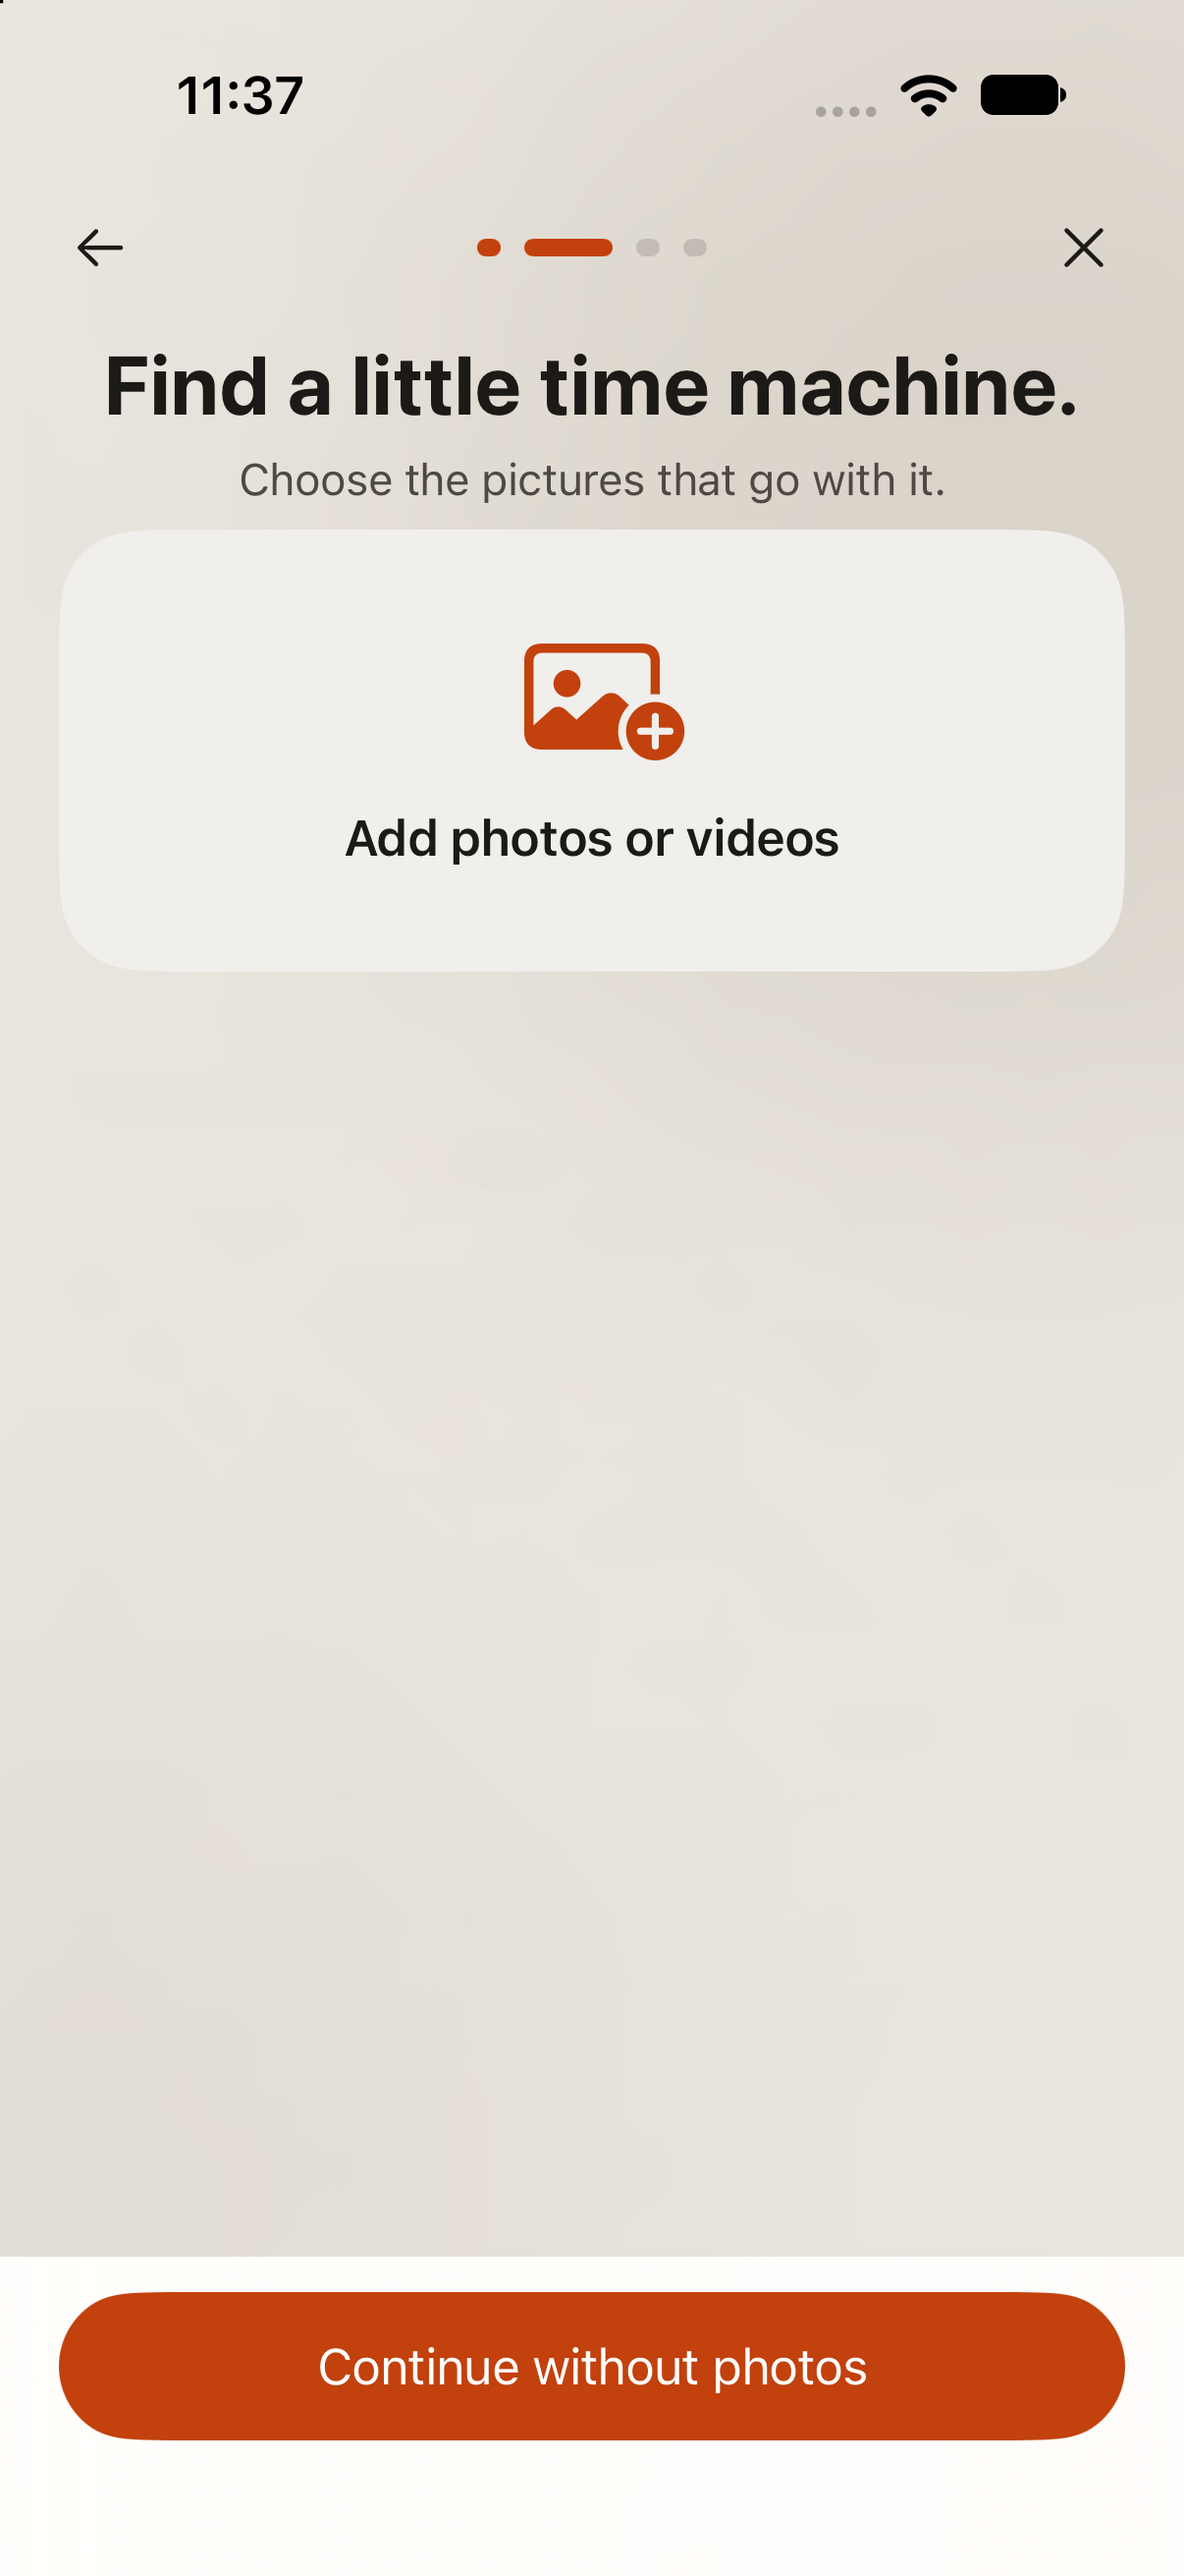
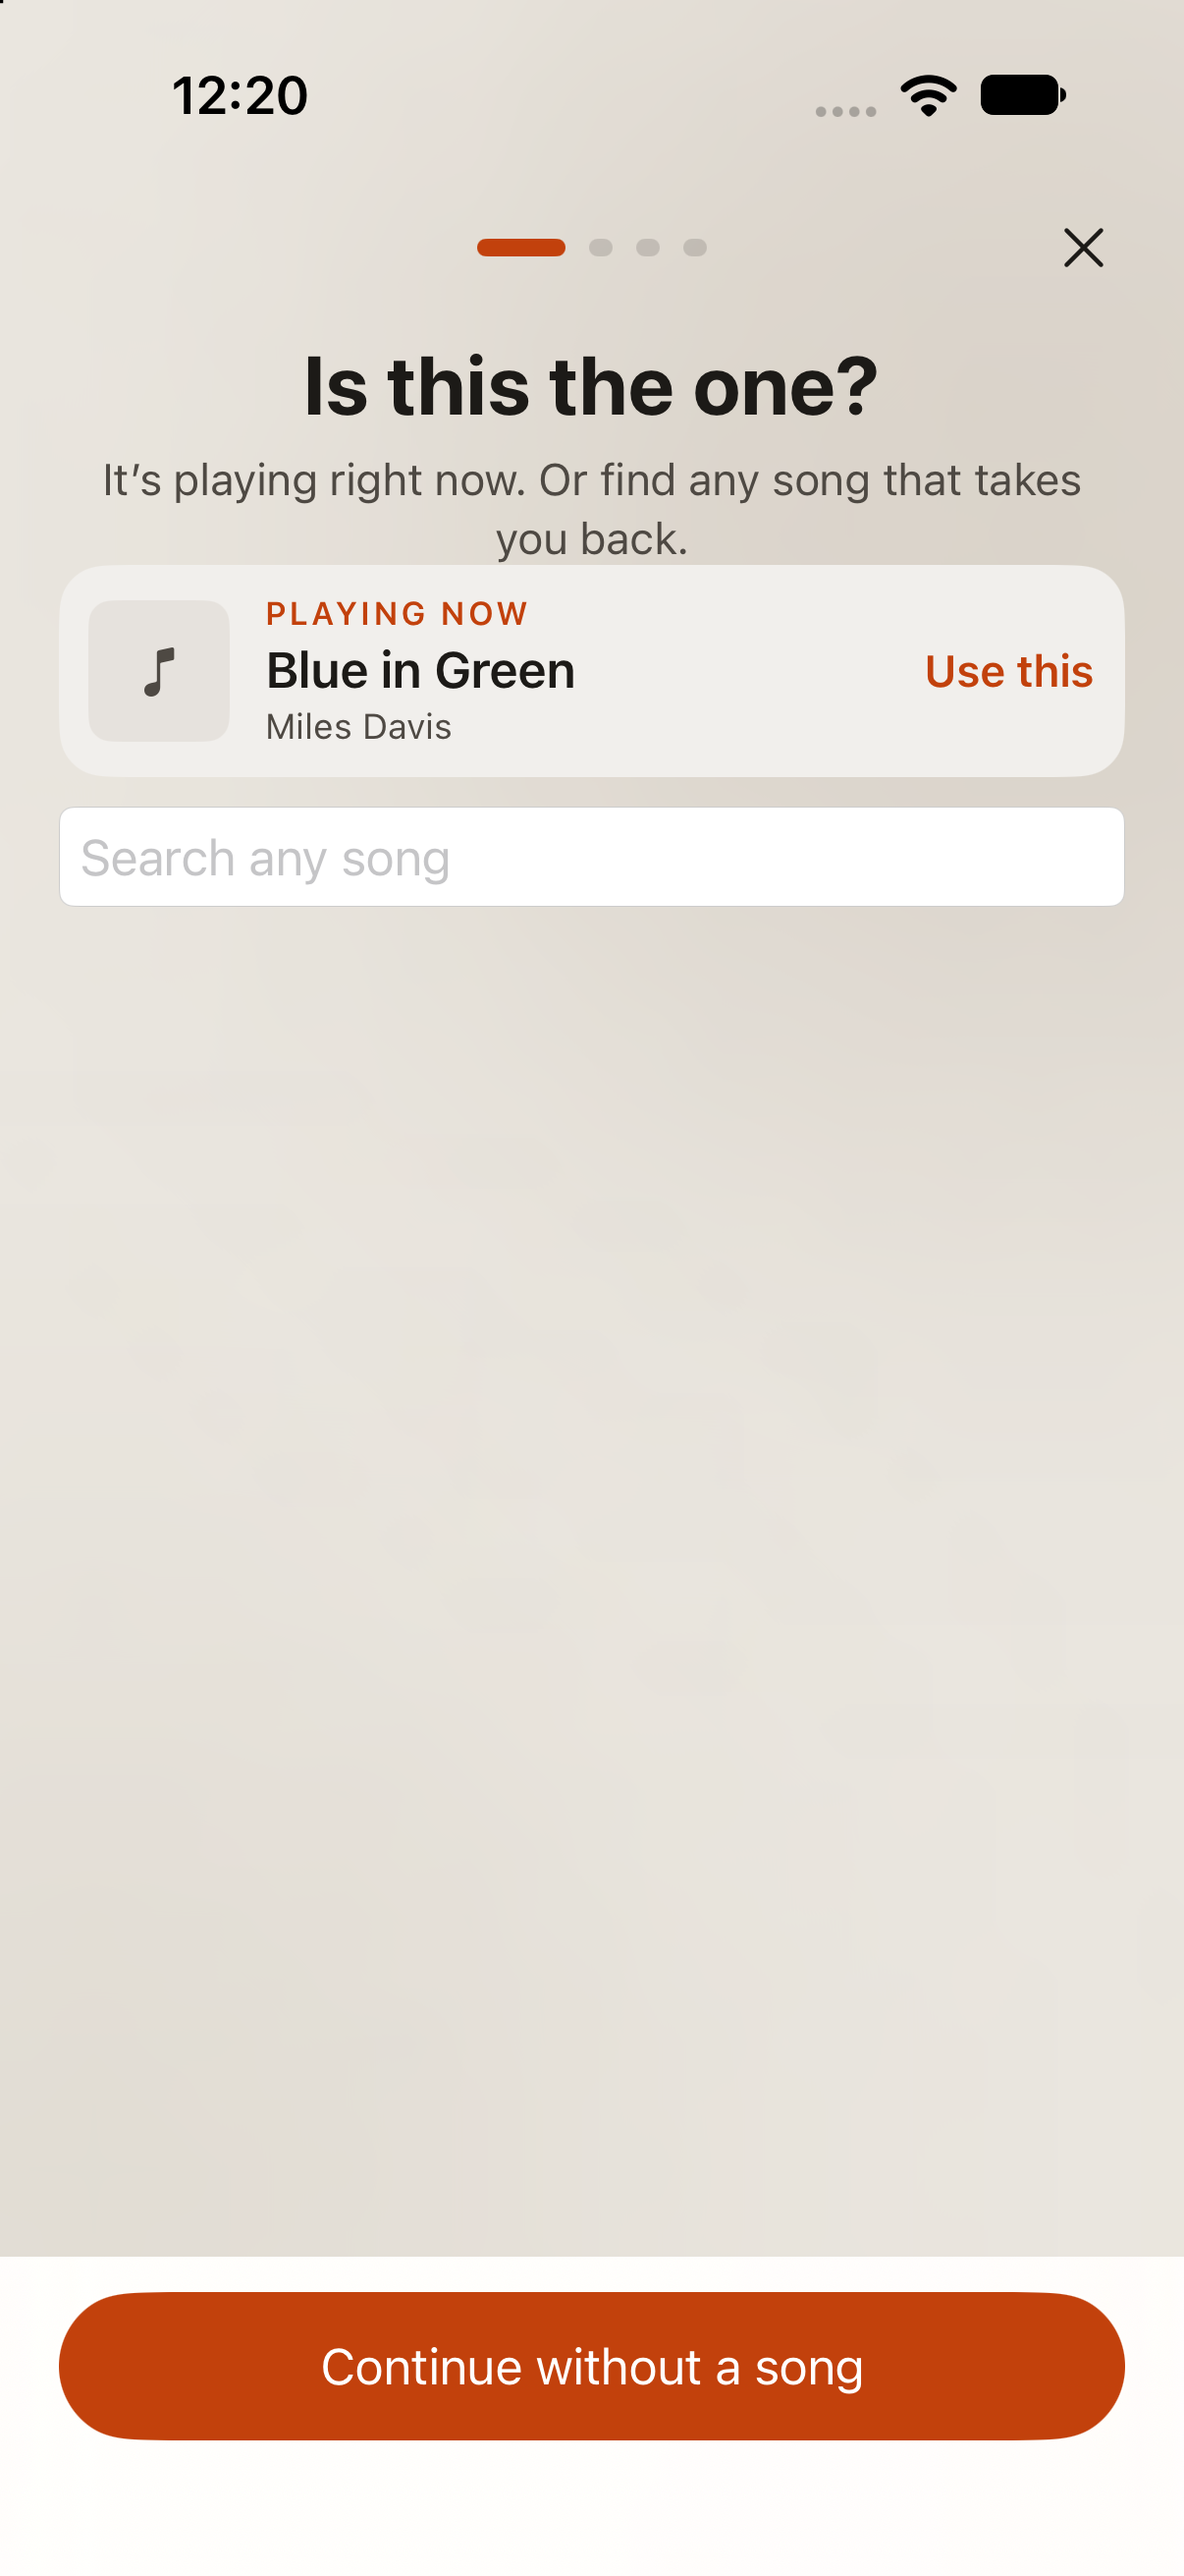
Fix review findings: photo-only saves, uploads that finish after leaving, song screenshot
- The preview's save guard now counts uploaded attachments (savableDraft), so a
  photo- or video-only memory can be kept.
- Close waits for an upload in flight, and an upload that still finishes after the journey
  was left is discarded from the server (MemoryUploadGate).
- Debug launch arg selects a step by name; replaces the song screenshot.

diff --git a/mobile/ios/jukeapp/JukeApp/Views/Memories/MemoryJourneyView.swift b/mobile/ios/jukeapp/JukeApp/Views/Memories/MemoryJourneyView.swift
@@ -25,6 +25,7 @@ struct MemoryJourneyView: View {
     @State private var results: [CatalogSearchResult] = []
     @State private var searching = false
     @State private var saving = false
+    @State private var gate = MemoryUploadGate()
     @State private var confirmDiscard = false
     @State private var didSave = false
     @State private var error: String?
@@ -36,14 +37,19 @@ struct MemoryJourneyView: View {
         var initialFlow = MemoryJourneyFlow(startWithSong: startWithSong)
         var initialDraft = MemoryDraft()
         #if DEBUG
-        if let value = ProcessInfo.processInfo.arguments.first(where: { $0.hasPrefix("--uitesting-memory-step=") })?.dropFirst(24), let steps = Int(value) {
+        if let value = ProcessInfo.processInfo.arguments.first(where: { $0.hasPrefix("--uitesting-memory-step=") })?.dropFirst(24) {
+            // A step name (photo, song, story, review) or a count of steps to skip.
+            let names: [String: MemoryJourneyFlow.Step] = ["photo": .photo, "song": .song, "story": .story, "review": .review]
+            var steps = Int(value) ?? 0
+            if let target = names[String(value)], let position = initialFlow.order.firstIndex(of: target) { steps = position }
             for _ in 0..<steps { initialFlow.next() }
-            if steps >= 2 {
+            let reached = initialFlow.furthest
+            if reached >= 2 || value == "review" || value == "story" {
                 var song = MemorySong(title: "Blue in Green", artist: "Miles Davis", provider: "spotify", providerID: "0aWMVrwxPNYkKmFthzmpRi")
                 song.artworkURL = nil
                 initialDraft.songs = [song]
             }
-            if steps >= 3 { initialDraft.text = "Driving home with the windows down. #summer #roadtrip"; initialDraft.place = "Highway 1" }
+            if value == "review" || value == "story" || reached >= 3 { initialDraft.text = "Driving home with the windows down. #summer #roadtrip"; initialDraft.place = "Highway 1" }
         }
         #endif
         _flow = State(initialValue: initialFlow)
@@ -104,7 +110,7 @@ struct MemoryJourneyView: View {
         .background(VibeBackground(atmosphere: model.atmosphere))
         .animation(gentle, value: flow.step)
         .onChange(of: picks) { _, items in Task { await upload(items) } }
-        .onDisappear { if !didSave { discard() } }
+        .onDisappear { if !didSave { gate.abandon(); discard() } }
         .confirmationDialog("Keep this moment going?", isPresented: $confirmDiscard, titleVisibility: .visible) {
             Button("Keep going", role: .cancel) {}
             Button("Leave draft", role: .destructive) { discard(); onClose() }
@@ -134,7 +140,8 @@ struct MemoryJourneyView: View {
             }
             Spacer()
             Button { if draft.canSave || !attachments.isEmpty { confirmDiscard = true } else { onClose() } } label: { Image(systemName: "xmark").frame(width: 44, height: 44) }
-                .disabled(saving).opacity(flow.step == .complete ? 0 : 1)
+                // Leaving mid-upload would strand the file on the server, so wait for it.
+                .disabled(saving || uploading).opacity(flow.step == .complete ? 0 : 1)
                 .accessibilityLabel("Close memory").accessibilityIdentifier("memory.close")
         }
         .foregroundStyle(theme.ink.color).padding(.horizontal, 12)
@@ -145,7 +152,7 @@ struct MemoryJourneyView: View {
             Text(flow.primaryLabel(hasPhotos: !attachments.isEmpty, hasSong: !draft.songs.isEmpty)).frame(maxWidth: .infinity)
         }
         .buttonStyle(.borderedProminent).controlSize(.large)
-        .disabled(uploading || saving || (flow.step == .review && !draft.canSave))
+        .disabled(uploading || saving || (flow.step == .review && !MemoryJourneyFlow.canSave(draft, attachmentIDs: attachments.map(\.media.id))))
         .padding(.horizontal, 20).padding(.vertical, 12)
         .background(.bar)
         .accessibilityIdentifier("memory.next")
@@ -372,6 +379,7 @@ struct MemoryJourneyView: View {
                 let type = item.supportedContentTypes.first
                 let ext = type?.preferredFilenameExtension ?? "jpg"
                 let media = try await model.memories.upload(data, filename: "memory-\(UUID().uuidString.prefix(8)).\(ext)", contentType: type?.preferredMIMEType ?? "image/jpeg")
+                guard gate.shouldKeepLateUpload() else { await model.memories.discardMedia([media]); return }
                 if !dateChosenByHand, attachments.isEmpty, let date = MemoryJourneyFlow.captureDate(fromImageData: data) { draft.occurredAt = date }
                 attachments.append(Attachment(media: media, thumbnail: type?.conforms(to: .image) == false ? nil : UIImage(data: data)?.preparingThumbnail(of: CGSize(width: 480, height: 480))))
             } catch { self.error = (error as? LocalizedError)?.errorDescription ?? "That attachment could not be added." }
@@ -390,8 +398,7 @@ struct MemoryJourneyView: View {
     }
 
     private func save() async {
-        var value = draft
-        value.mediaIDs = attachments.map(\.media.id)
+        var value = MemoryJourneyFlow.savableDraft(draft, attachmentIDs: attachments.map(\.media.id))
         value.people = people.split(separator: ",").map { $0.trimmingCharacters(in: .whitespaces) }.filter { !$0.isEmpty }
         value.tags = MemoryDraft.normalizedTags(value.tags + MemoryDraft.storyTags(value.text))
         if let message = value.validationMessage { error = message; return }

diff --git a/mobile/ios/jukeapp/JukeApp/Views/Memories/MemoryJourneyFlow.swift b/mobile/ios/jukeapp/JukeApp/Views/Memories/MemoryJourneyFlow.swift
@@ -40,6 +40,20 @@ struct MemoryJourneyFlow: Equatable {
 
     mutating func complete() { step = .complete }
 
+    // MARK: Saving
+
+    /// The draft as it will be saved: with the uploaded attachments' IDs, so a photo- or
+    /// video-only memory is eligible before the final submit builds it.
+    static func savableDraft(_ draft: MemoryDraft, attachmentIDs: [UUID]) -> MemoryDraft {
+        var value = draft
+        value.mediaIDs = attachmentIDs
+        return value
+    }
+
+    static func canSave(_ draft: MemoryDraft, attachmentIDs: [UUID]) -> Bool {
+        savableDraft(draft, attachmentIDs: attachmentIDs).canSave
+    }
+
     // MARK: Copy
 
     func title(draftHasSong: Bool, nowPlaying: Bool, question: String) -> String {
@@ -104,4 +118,12 @@ struct MemoryJourneyFlow: Equatable {
         formatter.dateFormat = "yyyy:MM:dd HH:mm:ss"
         return formatter.date(from: text)
     }
+}
+
+/// Decides what happens to an upload that finishes after the journey was left: it is
+/// discarded from the server, never attached to a view that is gone.
+struct MemoryUploadGate: Equatable {
+    private(set) var abandoned = false
+    mutating func abandon() { abandoned = true }
+    func shouldKeepLateUpload() -> Bool { !abandoned }
 }

diff --git a/mobile/ios/jukeapp/JukeAppTests/MemoryJourneyFlowTests.swift b/mobile/ios/jukeapp/JukeAppTests/MemoryJourneyFlowTests.swift
@@ -74,4 +74,23 @@ import UniformTypeIdentifiers
         #expect(parts.year == 2019 && parts.month == 7 && parts.day == 4)
         #expect(MemoryJourneyFlow.captureDate(fromImageData: Data([1, 2, 3])) == nil)
     }
+
+    @Test func aPhotoOnlyMemoryCanBeSavedAndLosingItDisablesSaving() {
+        let draft = MemoryDraft()
+        let photo = UUID()
+        #expect(!draft.canSave)
+        #expect(MemoryJourneyFlow.canSave(draft, attachmentIDs: [photo]))
+        #expect(MemoryJourneyFlow.savableDraft(draft, attachmentIDs: [photo]).mediaIDs == [photo])
+        // Removing the final attachment leaves nothing to save.
+        #expect(!MemoryJourneyFlow.canSave(draft, attachmentIDs: []))
+        var withText = draft; withText.text = "hello"
+        #expect(MemoryJourneyFlow.canSave(withText, attachmentIDs: []))
+    }
+
+    @Test func anUploadThatFinishesAfterLeavingIsNotKept() {
+        var gate = MemoryUploadGate()
+        #expect(gate.shouldKeepLateUpload())
+        gate.abandon()
+        #expect(!gate.shouldKeepLateUpload())
+    }
 }
